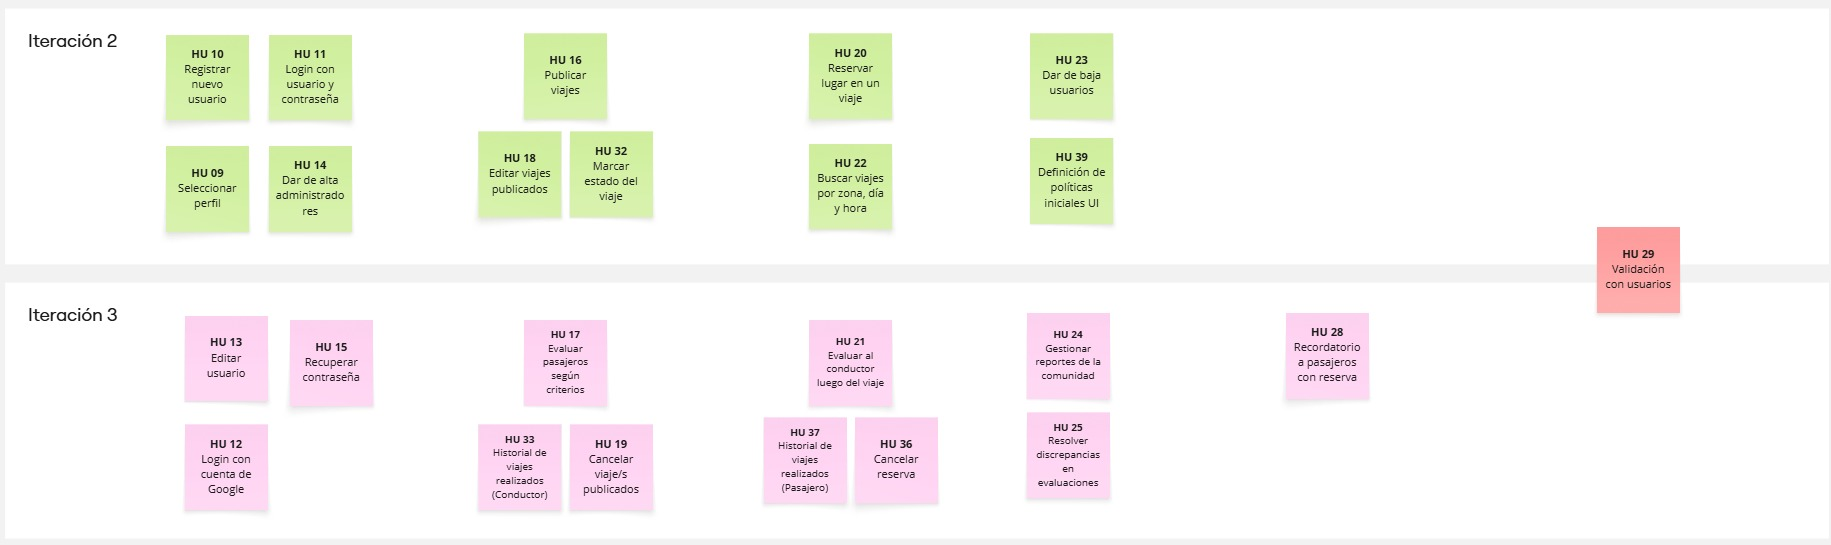
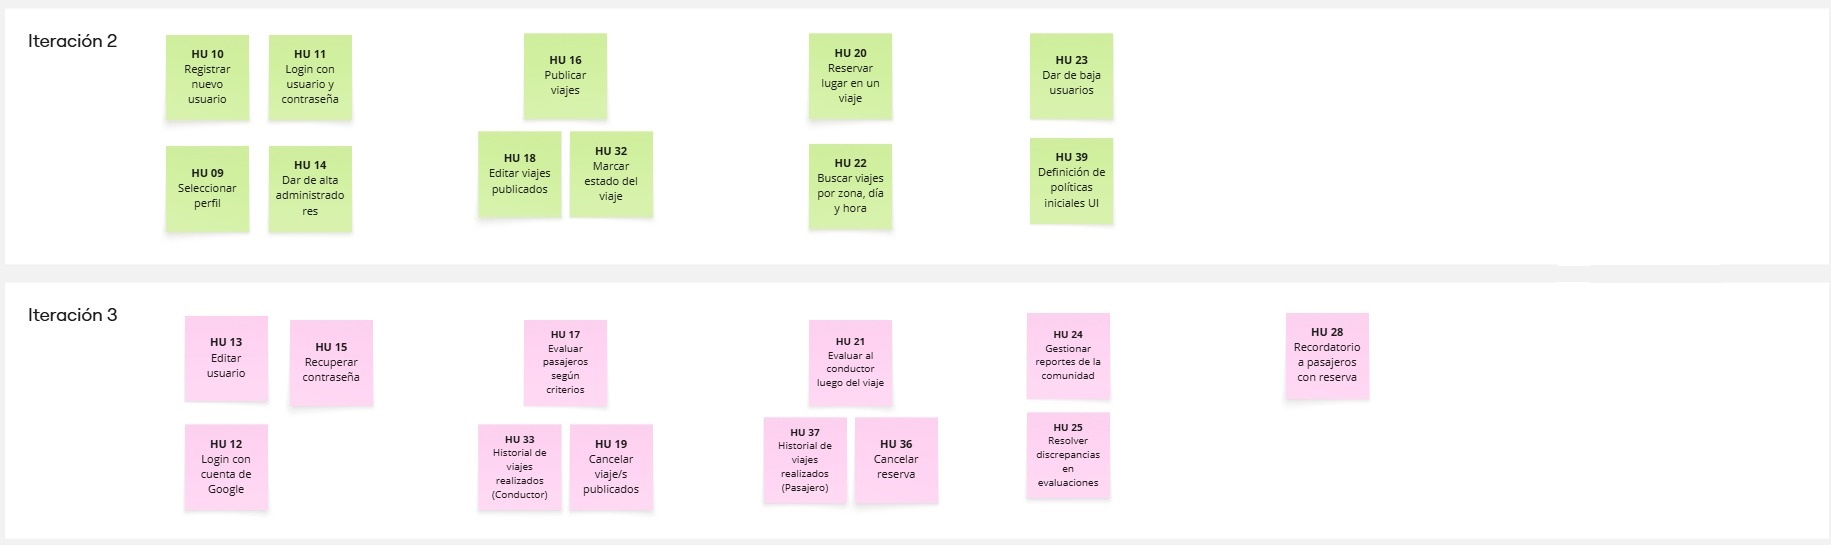
nuevos cambios

Changed region(s): [[0.8717, 0.4055, 0.9339, 0.5927]]

diff --git a/iteración-1/README.md b/iteración-1/README.md
@@ -27,6 +27,7 @@ En el presente Sprint definimos que los eventos se establecerán de la siguiente
 
 - **Sprint Planning**: 2 días (29/09/2025 y 02/10/2025)
 - **Daily Scrum**: 3 días (04/10/2025, 06/10/2025 y 08/10/2025)
+- **Sprint Review**: 1 día (10/10/2025)
 - **Sprint Retrospective**: 1 día (10/10/2025)
 
 # Definition of Done y Definition of Ready – Carpool Universitario
@@ -159,7 +160,6 @@ La reunión duró un total de 3 horas y culminamos que nos juntaremos en la pró
 
 ![Sprint 1 Backlog](Sprint1.PNG "Sprint 1")
 
-
 ### Tareas asociadas
 
 En esta iteración no se definieron tareas específicas para cada historia de usuario, ya que se consideran suficientemente claras y autoexplicativas por sí mismas.
@@ -183,6 +183,10 @@ Nos queda pendiente para la proxima y ultima daily; la de definir cómo sería u
 ### Minuta 5: Daily 3 (08/10/2025)
 
 ## Inspección y adaptación del proceso
+
+### Minuta 6: Review (10/10/2025)
+
+### Minuta 7: Retrospective (10/10/2025)
 
 _[Existe evidencia sobre la inspección del proceso con aprendizajes principales y acciones de mejora implementadas durante el desarrollo del proyecto.]_
 
@@ -344,7 +348,7 @@ En base al criterio anterior estos fueron los **Story Points** asignados a cada 
 **Id:** Corresponde al identificador asignado automáticamente por **Azure Boards** para cada historia de usuario.  
 La siguiente imagen muestra los **IDs asociados** a cada historia dentro del Product Backlog:
 
-![Imagen](Features/Estimaciones.PNG "Estimaciones")
+![Imagen](Items/Estimaciones.PNG "Estimaciones")
 
 ### 🗂 Product Backlog
 
@@ -364,7 +368,7 @@ Todo lo relacionado con el registro, inicio de sesión y administración de cuen
 | HU14 | Como administrador, quiero poder dar de alta a otros administradores para gestionar la comunidad. |
 | HU15 | Como usuario, quiero recuperar mi contraseña si la olvido para poder volver a ingresar a la aplicación. |
 
-![Imagen](Features/GestionUsuarios.PNG "GU")
+![Imagen](Items/GestionUsuarios.PNG "GU")
 ---
 
 #### 🟩 ÉPICA 2: Funcionalidades del conductor
@@ -379,7 +383,7 @@ Incluye todas las acciones relacionadas con los usuarios que ofrecen viajes dent
 | HU32 | Como conductor, quiero marcar el estado de mi viaje (pendiente, en curso o finalizado) para informar a los pasajeros. |
 | HU33 | Como conductor, quiero acceder a un historial de viajes realizados para consultar mis trayectos anteriores. |
 
-![Imagen](Features/FConductor.PNG "FC")
+![Imagen](Items/FConductor.PNG "FC")
 ---
 
 #### 🟧 ÉPICA 3: Funcionalidades del pasajero
@@ -393,7 +397,7 @@ Agrupa las funcionalidades destinadas a los usuarios que buscan y reservan viaje
 | HU36 | Como pasajero, quiero cancelar mi reserva en caso de que ya no pueda realizar el viaje. |
 | HU37 | Como pasajero, quiero acceder a un historial de viajes realizados para consultar mis trayectos anteriores. |
 
-![Imagen](Features/FPasajero.PNG "FP")
+![Imagen](Items/FPasajero.PNG "FP")
 ---
 
 #### 🟥 ÉPICA 4: Administración del sistema
@@ -407,7 +411,7 @@ Incluye las funcionalidades que permiten a los administradores mantener el orden
 | HU38 | Como administrador, quiero visualizar estadísticas generales de uso para analizar el desempeño de la plataforma. |
 | HU39 | Como administrador, quiero definir las políticas iniciales de uso y comportamiento para establecer las reglas de la comunidad. |
 
-![Imagen](Features/Administracion.PNG "AS")
+![Imagen](Items/Administracion.PNG "AS")
 ---
 
 #### 🟨 ÉPICA 5: Notificaciones y alertas
@@ -421,19 +425,20 @@ Reúne todas las notificaciones que mejoran la comunicación entre usuarios y el
 | HU34 | Como conductor, quiero recibir una notificación cuando un pasajero reserve un viaje para confirmar su lugar. |
 | HU35 | Como conductor, quiero recibir una notificación cuando un pasajero cancele su reserva para mantener actualizada la disponibilidad del viaje. |
 
-![Imagen](Features/Notificaciones.PNG "NS")
+![Imagen](Items/Notificaciones.PNG "NS")
+---
 
+#### 🟪 ÉPICA 6: Generales y configuración
+Incluye tareas y funcionalidades relacionadas con los ajustes visuales y la documentación necesaria para la finalización del proyecto.
 
+| ID  | Historia de Usuario |
+|-----|----------------------|
+| HU30 | Como equipo de desarrollo, quiero realizar ajustes en la interfaz de usuario (UI) para mejorar la experiencia y coherencia visual de la aplicación. |
+| HU31 | Como equipo, queremos elaborar la documentación final del producto para dejar registro del funcionamiento, decisiones de diseño y entregables del proyecto. |
+
+![Imagen](Items/General.PNG "G")
 <br>
 
 > **Nota:** La asignación de historias de usuario a cada sprint se definirá durante las sesiones de **Sprint Planning**.  
 > Actualmente, todas las historias se encuentran **priorizadas en el Product Backlog** y **organizadas por épicas** dentro de **Azure Boards**, lo que permite una gestión clara y trazable del progreso del proyecto.
 
-
-
-### Artefactos principales
-
-- Product backlog con épicas e historias de usuario para prototipar.
-- Historias de usuario cumpliendo el Definition of Ready con sus criterios de aceptación.
-- Propuesta de valor diferenciadora de la competencia.
-- Story map del roadmap inicial del proyecto.
